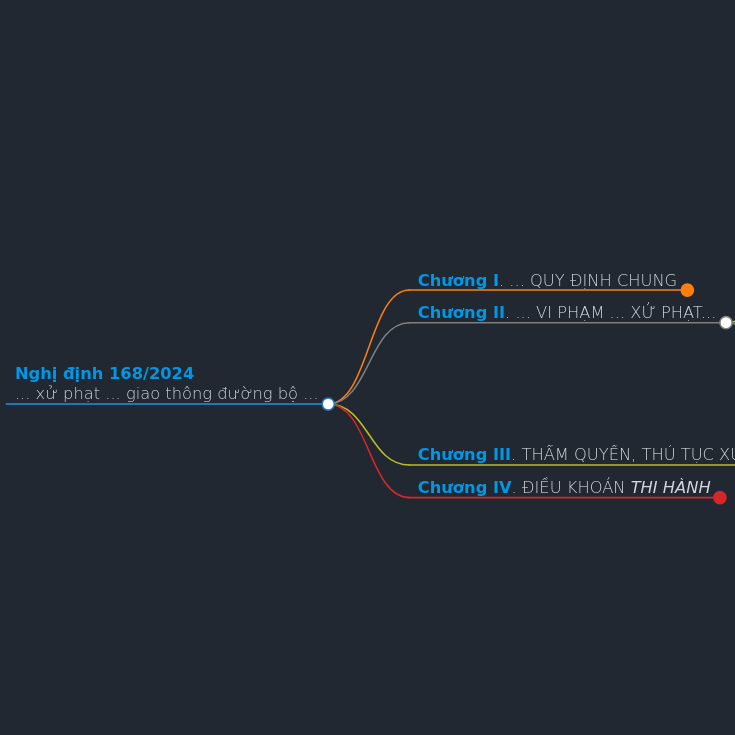
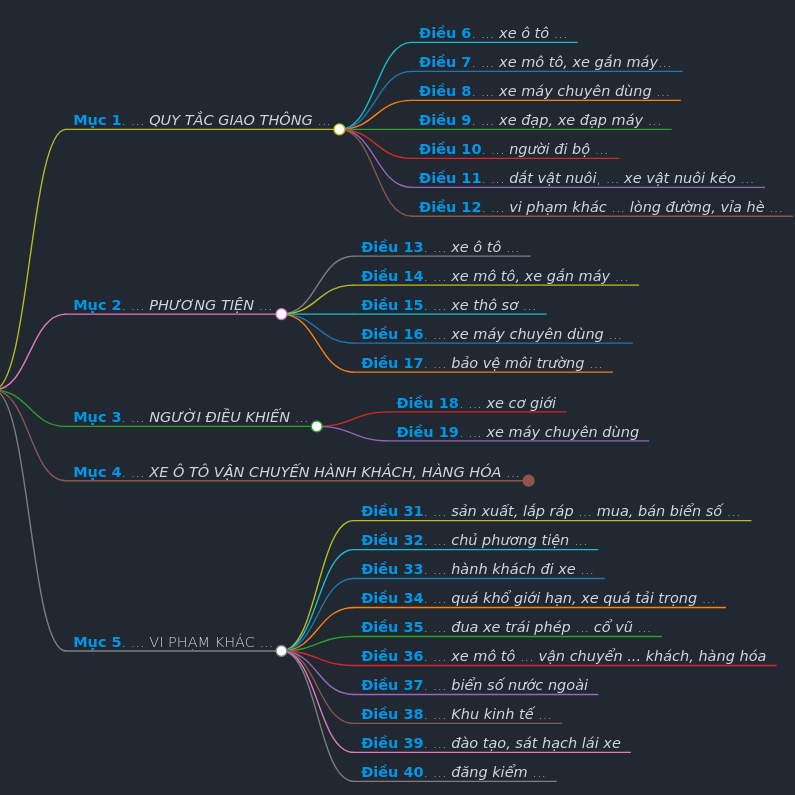
image for doc

diff --git a/src/app/page.tsx b/src/app/page.tsx
@@ -22,7 +22,7 @@ export default async function Home() {
                   backgroundImage:
                     'linear-gradient(90deg, rgb(0, 124, 240), rgb(0, 223, 216))',
                   backgroundClip: 'text',
-                  '-webkit-background-clip': 'text',
+                  WebkitBackgroundClip: 'text',
                   color: 'transparent',
                 }}
               >
@@ -34,7 +34,7 @@ export default async function Home() {
                   backgroundImage:
                     'linear-gradient(90deg, rgb(121, 40, 202), rgb(255, 0, 128))',
                   backgroundClip: 'text',
-                  '-webkit-background-clip': 'text',
+                  WebkitBackgroundClip: 'text',
                   color: 'transparent',
                 }}
               >
@@ -46,7 +46,7 @@ export default async function Home() {
                   backgroundImage:
                     'linear-gradient(90deg, rgb(255, 77, 77), rgb(249, 203, 40))',
                   backgroundClip: 'text',
-                  '-webkit-background-clip': 'text',
+                  WebkitBackgroundClip: 'text',
                   color: 'transparent',
                 }}
               >
@@ -83,31 +83,96 @@ export default async function Home() {
                 backgroundImage:
                   'linear-gradient(90deg, rgb(0, 124, 240), rgb(0, 223, 216))',
                 backgroundClip: 'text',
-                '-webkit-background-clip': 'text',
+                WebkitBackgroundClip: 'text',
                 color: 'transparent',
               }}
             >
               <div>
                 <span className="italic">Đọc</span> mọi lúc mọi nơi
               </div>
-              <div className="text-3xl lg:text-[2.5rem] lg:leading-[4rem]">
-                Ban đêm hay ban ngày
-                <div className="relative aspect-square">
-                  <Image
-                    fill
-                    src="/assets/showcase/moi-luc-dark-mode.png"
-                    alt="Tóm tắt - Sơ đồ tư duy"
-                  />
+              <div className="mt-4 text-3xl lg:text-[2.5rem] lg:leading-[4rem]">
+                Ban ngày hay ban đêm
+                <div className="mt-4 relative mx-auto w-96">
+                  <div className="relative aspect-square rounded-[32px] overflow-hidden border-2 mb-16 mr-16">
+                    <Image
+                      fill
+                      src="/assets/showcase/moi-luc-light-mode.png"
+                      alt="Đọc mọi lúc với chế độ sáng"
+                    />
+                  </div>
+                  <div className="absolute left-16 top-16 w-80">
+                    <div className="aspect-square rounded-[32px] overflow-hidden">
+                      <Image
+                        fill
+                        src="/assets/showcase/moi-luc-dark-mode.png"
+                        alt="Đọc mọi lúc với chế độ tối"
+                        className="rounded-[32px]"
+                      />
+                    </div>
+                  </div>
                 </div>
               </div>
               <div className="text-3xl lg:text-[2.5rem] lg:leading-[4rem]">
-                Điện thoại hay máy tính
+                Máy tính hay điện thoại
+                <div className="mt-4 relative mx-auto w-96">
+                  <div className="relative aspect-square rounded-[32px] overflow-hidden border-2 mb-16 mr-16">
+                    <Image
+                      fill
+                      src="/assets/showcase/moi-noi-desktop.png"
+                      alt="Đọc mọi nơi trên máy tính"
+                    />
+                  </div>
+                  <div className="absolute left-16 top-16 w-80">
+                    <div className="aspect-square rounded-[32px] overflow-hidden">
+                      <Image
+                        src="/assets/showcase/moi-noi-mobile.png"
+                        fill
+                        alt="Đọc mọi nơi trên điện thoại"
+                        className="rounded-[32px]"
+                      />
+                    </div>
+                  </div>
+                </div>
               </div>
               <div className="text-3xl lg:text-[2.5rem] lg:leading-[4rem]">
-                Tóm tắt với sơ đồ
+                Tóm tắt với sơ đồ...
+                <div className="mt-4 relative mx-auto w-96">
+                  <div className="relative aspect-square rounded-[32px] overflow-hidden border-2 mb-16 mr-16">
+                    <Image
+                      fill
+                      src="/assets/showcase/tom-tat-bang-so-do.png"
+                      alt="Tóm tắt với sơ đồ tư duy"
+                    />
+                  </div>
+                </div>
+              </div>
+              <div className="text-3xl lg:text-[2.5rem] lg:leading-[4rem]">
+                ...có thể tương tác
+                <div className="mt-4 relative mx-auto w-96">
+                  <div className="relative aspect-[2/1] rounded-[32px] overflow-hidden border-2 mb-16 mr-16">
+                    <Image
+                      fill
+                      src="/assets/showcase/tom-tat-bang-so-do-tuong-tac.png"
+                      alt="Tương tác với sơ đồ tư duy"
+                    />
+                  </div>
+                </div>
+              </div>
+              <div className="text-3xl lg:text-[2.5rem] lg:leading-[4rem]">
+                Mục lục chi tiết
+                <div className="mt-4 relative mx-auto w-96">
+                  <div className="relative aspect-[1/1] rounded-[32px] overflow-hidden border-2 mb-16 mr-16">
+                    <Image
+                      fill
+                      src="/assets/showcase/tom-tat-muc-luc.png"
+                      alt="Mục lục chi tiết"
+                    />
+                  </div>
+                </div>
               </div>
             </div>
           </div>
+
           <div className="mt-16 flex flex-row md:justify-center font-bold text-4xl lg:text-[3rem] leading-[4rem] lg:leading-[4.5rem]">
             <div
               className=""
@@ -115,7 +180,7 @@ export default async function Home() {
                 backgroundImage:
                   'linear-gradient(90deg, rgb(121, 40, 202), rgb(255, 0, 128))',
                 backgroundClip: 'text',
-                '-webkit-background-clip': 'text',
+                WebkitBackgroundClip: 'text',
                 color: 'transparent',
               }}
             >
@@ -140,7 +205,7 @@ export default async function Home() {
                 backgroundImage:
                   'linear-gradient(90deg, rgb(255, 77, 77), rgb(249, 203, 40))',
                 backgroundClip: 'text',
-                '-webkit-background-clip': 'text',
+                WebkitBackgroundClip: 'text',
                 color: 'transparent',
               }}
             >
